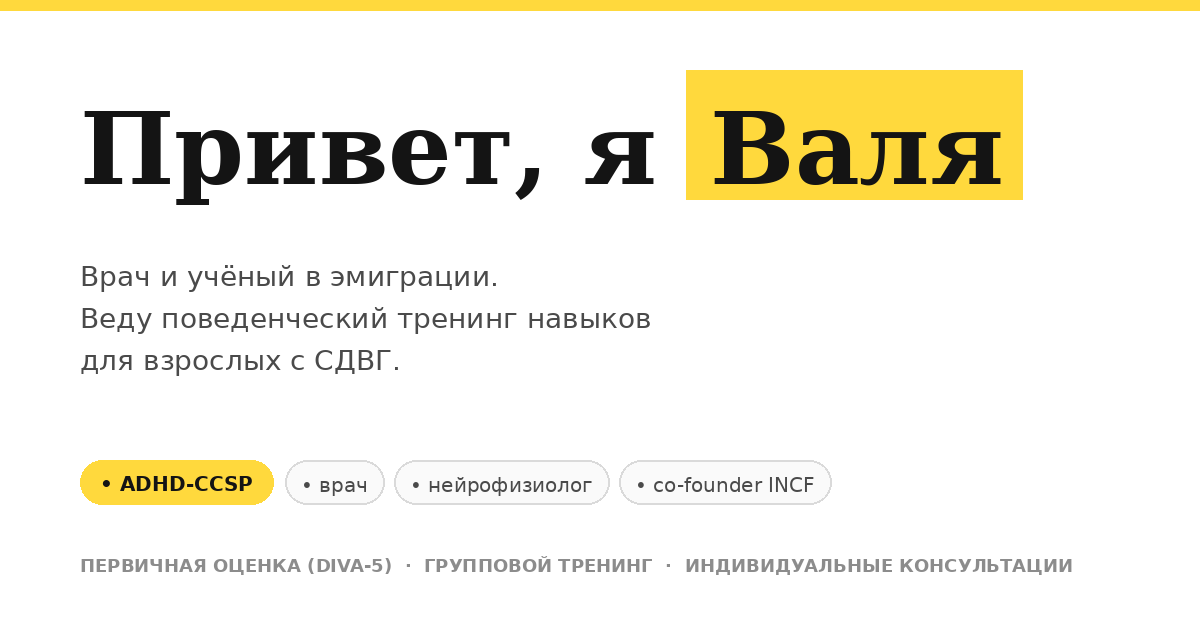
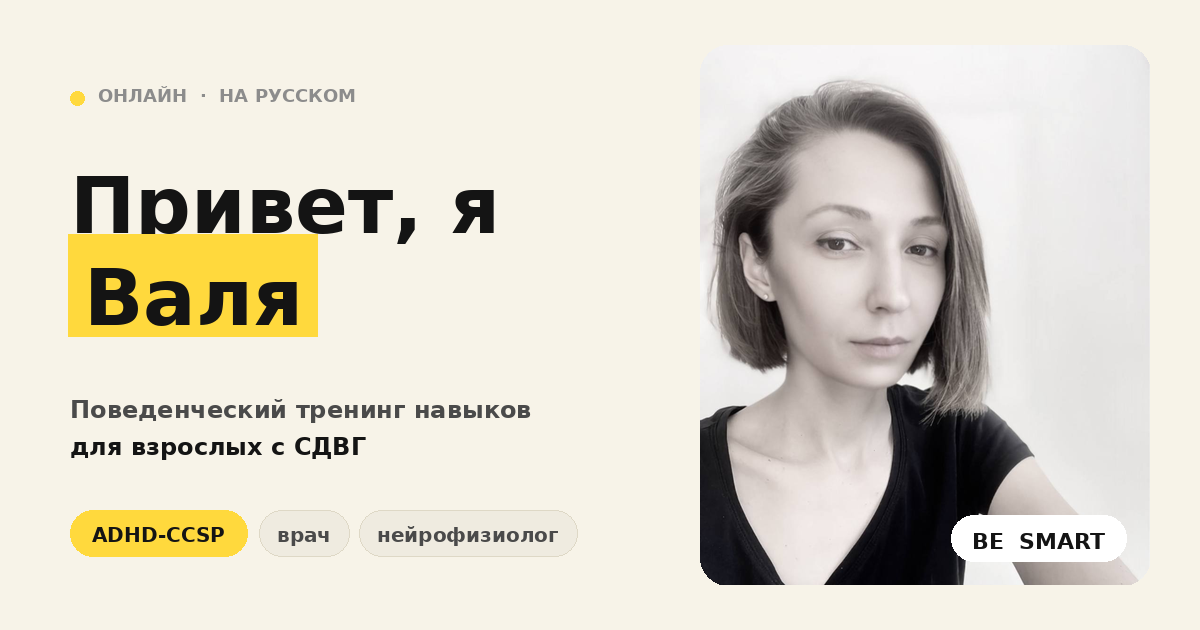
index OG: по макету — Привет я Валя + портрет справа + BE SMART (v=3)

diff --git a/index.html b/index.html
@@ -13,7 +13,7 @@
 <meta property="og:description" content="Первичная оценка, групповой тренинг навыков и индивидуальные консультации. Онлайн, на русском.">
 <meta property="og:type" content="website">
 <meta property="og:url" content="https://workgruzdeva-ctrl.github.io/gruzdeva-site/">
-<meta property="og:image" content="https://workgruzdeva-ctrl.github.io/gruzdeva-site/promo/og_index.png?v=2">
+<meta property="og:image" content="https://workgruzdeva-ctrl.github.io/gruzdeva-site/promo/og_index.png?v=3">
 <meta property="og:locale" content="ru_RU">
 <meta property="og:site_name" content="Gruzdeva V.А.">
 
@@ -21,7 +21,7 @@
 <meta name="twitter:card" content="summary_large_image">
 <meta name="twitter:title" content="Валентина Груздева — врач и ADHD-коуч для взрослых с СДВГ">
 <meta name="twitter:description" content="Первичная оценка, групповой тренинг навыков и индивидуальные консультации. Онлайн, на русском.">
-<meta name="twitter:image" content="https://workgruzdeva-ctrl.github.io/gruzdeva-site/promo/og_index.png?v=2">
+<meta name="twitter:image" content="https://workgruzdeva-ctrl.github.io/gruzdeva-site/promo/og_index.png?v=3">
 
 <!-- Schema.org: Person + ProfessionalService + Services + FAQ -->
 <script type="application/ld+json">
@@ -37,7 +37,7 @@
       "description": "Врач и учёный. Работает как ADHD-коуч и тренер навыков для взрослых с СДВГ: помогает разобраться в своём СДВГ и построить рабочие стратегии. Сертификация ADHD-CCSP (Certified Clinical Services Provider for ADHD). Онлайн, на русском языке. Не проводит психотерапию и не назначает медикаменты.",
       "email": "work.gruzdeva@gmail.com",
       "url": "https://workgruzdeva-ctrl.github.io/gruzdeva-site/",
-      "image": "https://workgruzdeva-ctrl.github.io/gruzdeva-site/promo/og_index.png?v=2",
+      "image": "https://workgruzdeva-ctrl.github.io/gruzdeva-site/promo/og_index.png?v=3",
       "sameAs": [
         "https://t.me/dr_gruzdeva"
       ],
@@ -65,7 +65,7 @@
       "@id": "https://workgruzdeva-ctrl.github.io/gruzdeva-site/#service",
       "name": "Gruzdeva V.А. — помощь взрослым с СДВГ",
       "url": "https://workgruzdeva-ctrl.github.io/gruzdeva-site/",
-      "image": "https://workgruzdeva-ctrl.github.io/gruzdeva-site/promo/og_index.png?v=2",
+      "image": "https://workgruzdeva-ctrl.github.io/gruzdeva-site/promo/og_index.png?v=3",
       "priceRange": "€€",
       "serviceType": "Коучинг и поведенческий тренинг навыков для взрослых с СДВГ",
       "areaServed": {
